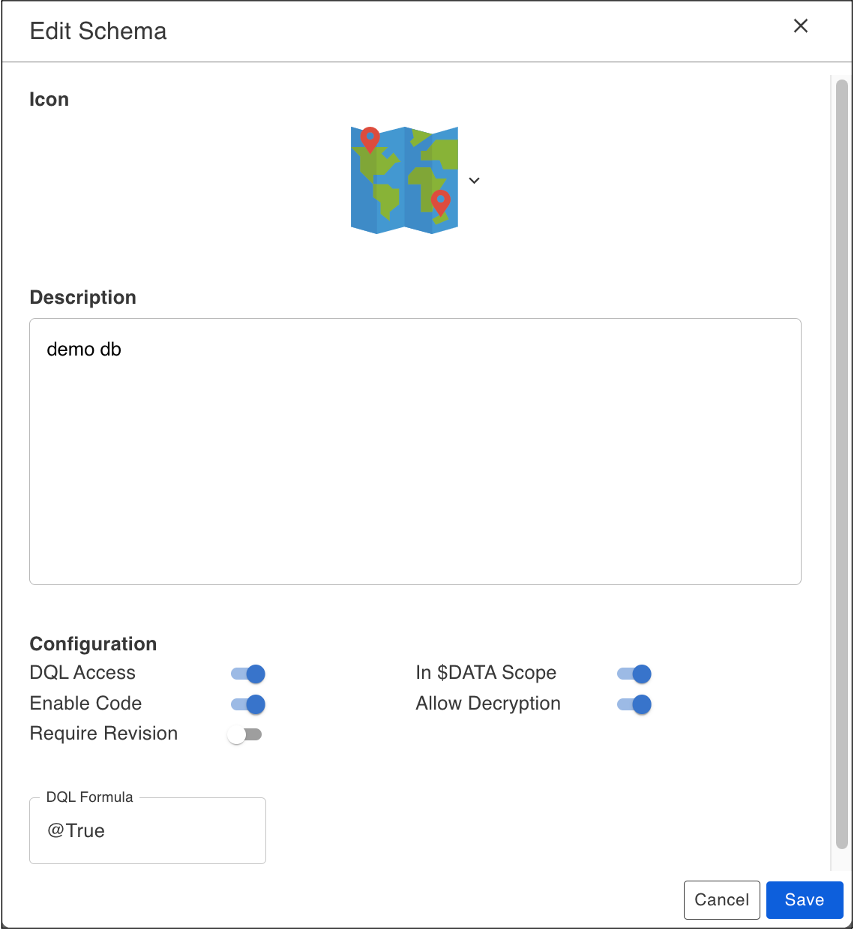
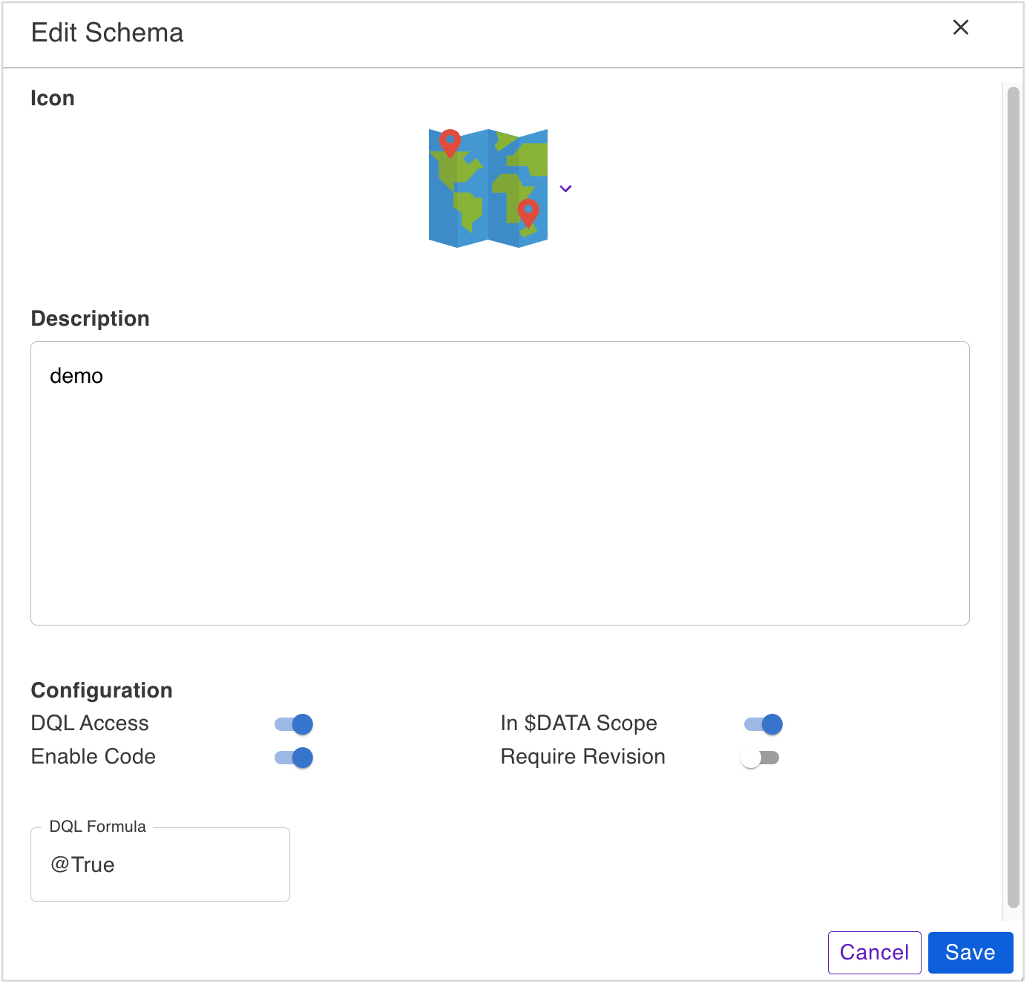
Admin UI updates

diff --git a/docs/references/usingwebui/schemaui.md b/docs/references/usingwebui/schemaui.md
@@ -67,15 +67,16 @@ The `nsf` database file and schema are added to the schema list.
       
       - You can select a new icon from the drop-down icon list.
       - You can update the description of the schema in the **Description**. 
-      - You can update the configuration by clicking the toggles to enable or disable the configuration settings. For more information, see *Configuration Settings* table. 
+      - You can update the configuration by clicking the toggles to enable or disable the configuration settings. For more information, refer to the following table: 
 
       |Configuration setting|Description|
       |----|----|
       |DQL Access|Enable the setting to allows DQL queries to run against the elements of the schema. A mode named `dql` must be created on each form specifying the fields allowed for that form.|
       |In $DATA Scope|Enable the setting to make schema available in the system `$DATA` scope. Disable the setting to limit access to the schema to those with the specific scope. |
       |Enable Code|*feature under development*|
-      |Allow Decryption|*feature under development*|
       |Require Revision|Enable the setting to require the provision of the correct revision version of the document to update the document through an update endpoint.|
+
+      <!--|Allow Decryption|*feature under development*|-->
 
       - You can enter a valid Notes formula in **DQL Formula** to limit DQL usage. The formula must evaluate to `@TRUE` for DQL to be allowed. The default is `@TRUE`, which means no limitations.
 

diff --git a/docs/howto/database/editsourcejson.md b/docs/howto/database/editsourcejson.md
@@ -32,8 +32,9 @@ The procedures guide you in editing the database schema JSON in the **Tree View*
 
     ![Insert Object](../../assets/images/insertjsonobject1.png)
  
-    !!!tip
-        The available value **Types** are *String*, *Boolean*, *Number*, *Array*, and *Object*.
+    !!!note
+        - The available value **Types** are *String*, *Boolean*, *Number*, *Array*, and *Object*.
+        - If you are adding an *Array* or an *Object*, you must enter a key-value pair in the **Value** text box.
 
 3. Click **Insert**. The added JSON object is placed at the end of the list. 
 
@@ -68,6 +69,9 @@ The procedures guide you in editing the database schema JSON in the **Tree View*
 2. Select **Add**. 
 
 3. Enter a **Key**, select a **Type**, and then enter a **Value**.
+
+    !!!note
+        If you are adding an *Array* or an *Object*, you must enter a key-value pair in the **Value** text box.
 
 4. Click **Insert**. The added JSON object is placed at the end of the list of JSON objects. 
 
@@ -108,7 +112,7 @@ The procedures guide you in editing the database schema JSON in the **Tree View*
 
 3. Update the **Key**, **Type**, and **Value** as required.
 
-3. Click **Insert**. The added JSON object is placed at the end of the list. 
+3. Click **Insert**. 
 
 4. Click the **Save** icon to save the changes.
 
